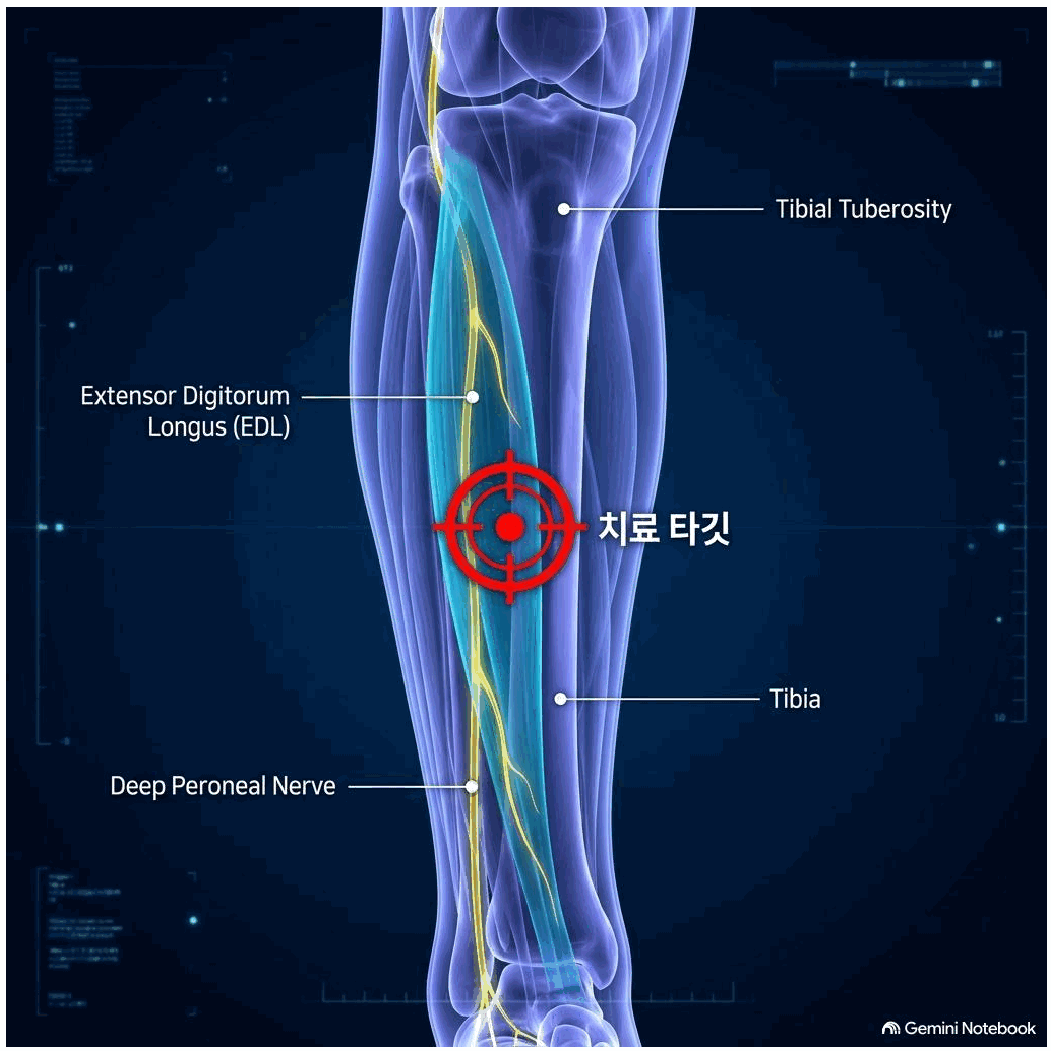
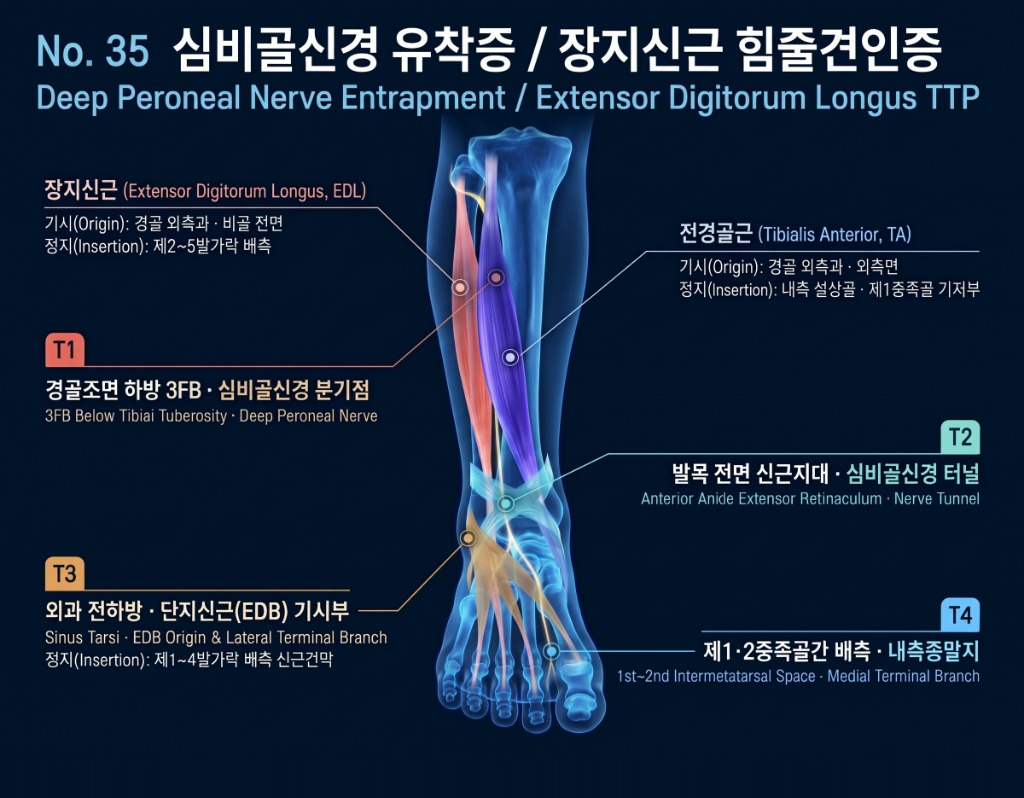
feat(healing-app): upgrade No.35 deep peroneal nerve & EDL plate and align T1-T4 pins

diff --git a/healing-app/js/pain_data.js b/healing-app/js/pain_data.js
@@ -4441,12 +4441,12 @@ window.PAIN_CONDITIONS = [
       "en": "Hypertonicity of extensor digitorum longus (EDL) entraps deep peroneal nerve in anterior compartment, causing ankle joint pain and dysesthesia."
     },
     "targetTissues": {
-      "ko": "장지신근(Extensor digitorum longus, EDL).",
-      "en": "Extensor digitorum longus (EDL)."
+      "ko": "장지신근(EDL · 경골 외측과·비골 전면 기시 / 제2~5발가락 배측 정지), 전경골근(TA · 경골 외측과·외측면 기시 / 내측 설상골·제1중족골 기저부 정지), 발목 전면 신근지대 터널, 외과 전하방 단지신근(EDB) 기시부, 제1·2중족골간 심비골신경 내측종말지.",
+      "en": "Extensor Digitorum Longus (EDL), Tibialis Anterior (TA), anterior ankle extensor retinaculum tunnel, sinus tarsi / EDB origin & lateral terminal branch, and 1st-2nd intermetatarsal medial terminal branch."
     },
     "palpation": {
-      "ko": "경골조면 하단 3 FB 아래 장지신근 근복 지그시 깊은 압통점.",
-      "en": "Deep tender point in EDL belly 3 FB below tibial tuberosity."
+      "ko": "① 경골조면 하방 3FB 전경골근·장지신근 사이 심비골신경 분기점 ② 발목 전면 신근지대(전방 족근관) ③ 외과 전하방 족근동(Sinus Tarsi)·단지신근(EDB) 기시부 ④ 제1·2중족골간 발등 배측 내측종말지.",
+      "en": "3FB below tibial tuberosity between TA and EDL, anterior ankle extensor retinaculum, sinus tarsi / EDB origin, and 1st-2nd intermetatarsal web space."
     },
     "clinicalCase": {
       "ko": "발목 염좌 이후 수개월간 지속된 발목 관절 속 먹먹한 통증 및 엄지-2지 사이 저림 사례. 전경골 하퇴 장지신근(EDL) 근복 및 족관절 전방 신경 관통부에 NovaCell Therapy를 적용하여 심비골신경 유착을 해소하고 가벼운 러닝 가능 회복.",
@@ -4457,73 +4457,73 @@ window.PAIN_CONDITIONS = [
       {
         "code": "T1",
         "color": "#ff334b",
-        "x": 48.5,
-        "y": 50.1,
+        "x": 48.4,
+        "y": 34.8,
         "role": {
           "ko": "주 신경포착점",
           "en": "Primary Nerve Entrapment"
         },
         "name": {
-          "ko": "T1: 경골조면 하방 3FB 장지신근(EDL)·전경골근 근복 및 심비골신경 분기점",
-          "en": "T1: Proximal EDL & Tibialis Anterior Deep Peroneal Nerve Point"
+          "ko": "T1: 경골조면 하방 3FB · 심비골신경 분기점 (3FB Below Tibial Tuberosity)",
+          "en": "T1: 3FB Below Tibial Tuberosity · Deep Peroneal Nerve"
         },
         "desc": {
-          "ko": "[표적 해부] 경골조면 하단에서 약 3손가락 너비 아래, 경골 외측과 비골두 전방 사이의 장지신근(EDL)·전경골근(TA) 상부 근복 및 심비골신경 진입부.\n[촉지 및 시술] 족삼리혈 부근 전외측 정강이 근육(HP-CPN-02). 발등과 발가락을 들어 올리는 신경·근육의 상류 포착점입니다.",
-          "en": "3 finger-breadths distal to tibial tuberosity between tibialis anterior and EDL over deep peroneal nerve."
+          "ko": "[표적 해부] 경골조면 하방 3FB(약 5~6cm) 전경골근(TA)과 장지신근(EDL) 사이 근막 고랑으로 심비골신경이 진입·분기하는 근위 포착점.\n[촉지 및 시술] 정강이 앞바깥쪽 전경골근 외연과 장지신근 사이의 깊은 압통 고랑. 정강이 전면 뻐근함과 발등·발가락 배측으로 뻗치는 당김을 원천 해소합니다.",
+          "en": "Proximal entrapment site 3FB below the tibial tuberosity between TA and EDL where the deep peroneal nerve enters the anterior compartment."
         }
       },
       {
         "code": "T2",
         "color": "#00f5d4",
-        "x": 56.0,
-        "y": 54.0,
+        "x": 49.4,
+        "y": 63.3,
         "role": {
-          "ko": "신경 주행·분지점",
-          "en": "Nerve Pathway Target"
+          "ko": "신경 터널·지대점",
+          "en": "Retinaculum Tunnel Target"
         },
         "name": {
-          "ko": "T2: 발목 전면 신근지대(Extensor Retinaculum) 해계혈 심비골신경 터널점",
-          "en": "T2: Anterior Ankle Extensor Retinaculum (ST41) Deep Peroneal Tunnel"
+          "ko": "T2: 발목 전면 신근지대 · 심비골신경 터널 (Anterior Ankle Extensor Retinaculum)",
+          "en": "T2: Anterior Ankle Extensor Retinaculum · Nerve Tunnel"
         },
         "desc": {
-          "ko": "[표적 해부] 발목 앞쪽 주름 정중앙(장무지신근건 EHL과 장지신근건 EDL 사이) 상·하 신근지대 아래 심비골신경 관통 터널.\n[촉지 및 시술] 발목 전면 중앙 오목한 해계혈. 전방 발목터널 증후군을 즉각 감압합니다.",
-          "en": "Anterior tarsal tunnel under extensor retinaculum between EHL and EDL tendons at ankle crease."
+          "ko": "[표적 해부] 발목 전면 하신근지대(Inferior Extensor Retinaculum) 아래 장지신근·장무지신근 힘줄과 함께 통과하는 전방 족근관(심비골신경 터널).\n[촉지 및 시술] 발목 앞주름 정중앙 신근건 사이 오목한 터널 부위. 꽉 끼는 신발·구두 착용이나 족배굴곡 시 발등 앞쪽이 찌릿하고 조이는 증상을 즉각 감압합니다.",
+          "en": "Anterior tarsal tunnel beneath the inferior extensor retinaculum; directly decompresses deep peroneal nerve entrapment at the ankle crease."
         }
       },
       {
         "code": "T3",
         "color": "#ff9f43",
-        "x": 38.0,
-        "y": 62.0,
+        "x": 45.6,
+        "y": 67.5,
         "role": {
           "ko": "힘줄·골막 부착점",
-          "en": "Tendon & Periosteal Target"
+          "en": "Tendon & Origin Target"
         },
         "name": {
-          "ko": "T3: 외과 전하방 구허혈 단지신근(EDB)·단무지신근 공통건 기시부 골막 부착점",
-          "en": "T3: Anteroinferior Lateral Malleolus EDB Origin (Sinus Tarsi)"
+          "ko": "T3: 외과 전하방 · 단지신근(EDB) 기시부 (Sinus Tarsi · Lateral Terminal Branch)",
+          "en": "T3: Sinus Tarsi · EDB Origin & Lateral Terminal Branch"
         },
         "desc": {
-          "ko": "[표적 해부] 바깥쪽 복사뼈 전하방 족근동 입구 단지신근(EDB) 기시부 골막 및 심비골신경 외측종말지.\n[촉지 및 시술] 발등 중심부와 발목 전외측 통증의 핵심 골막·건 타깃입니다.",
-          "en": "Extensor digitorum brevis (EDB) origin anteroinferior to lateral malleolus over sinus tarsi."
+          "ko": "[표적 해부] 발목 바깥쪽 복숭아뼈(외과) 전하방 족근동(Sinus Tarsi)의 단지신근(EDB) 기시부 및 심비골신경 외측종말지 (정지: 제1~4발가락 배측 신근건막).\n[촉지 및 시술] 외과 앞아래 오목한 족근동 함요처. 발등 바깥쪽 둔통과 보행 시 발목 전외측 시큰거림을 해소합니다.",
+          "en": "EDB origin at the sinus tarsi anteroinferior to the lateral malleolus with the lateral terminal branch of the deep peroneal nerve."
         }
       },
       {
         "code": "T4",
         "color": "#38bdf8",
-        "x": 62.0,
-        "y": 38.0,
+        "x": 53.8,
+        "y": 81.5,
         "role": {
           "ko": "신경 주행·분지점",
-          "en": "Nerve Pathway Target"
+          "en": "Distal Terminal Branch Target"
         },
         "name": {
-          "ko": "T4: 제1·2중족골간 배측 심비골신경 내측종말지(태충~행간 구간) 타깃",
-          "en": "T4: 1st-2nd Dorsal Intermetatarsal Space Deep Peroneal Terminal Point"
+          "ko": "T4: 제1·2중족골간 배측 · 내측종말지 (1st~2nd Intermetatarsal Space)",
+          "en": "T4: 1st~2nd Intermetatarsal Space · Medial Terminal Branch"
         },
         "desc": {
-          "ko": "[표적 해부] 발등 엄지와 둘째 발가락 뼈 사이 심비골신경 감각 종말지.\n[촉지 및 시술] 발등 앞쪽과 엄지·검지발가락 사이 저림 및 통증을 마무리합니다.",
-          "en": "Dorsal 1st intermetatarsal space where medial terminal branch of deep peroneal nerve emerges."
+          "ko": "[표적 해부] 엄지발가락과 둘째발가락 사이 제1·2중족골간 배측 공간을 지배하는 심비골신경 내측종말지(Medial Terminal Branch) 및 족배동맥 인접부.\n[촉지 및 시술] 제1·2중족골 뼈 사이 발등 고랑(태충혈 인접). 엄지·둘째발가락 사이 저림, 감각 이상 및 발등 말단 찌릿함을 마무리 해소합니다.",
+          "en": "Medial terminal sensory branch of the deep peroneal nerve in the 1st-2nd intermetatarsal web space; relieves numbness and tingling between the 1st and 2nd toes."
         }
       }
     ],
